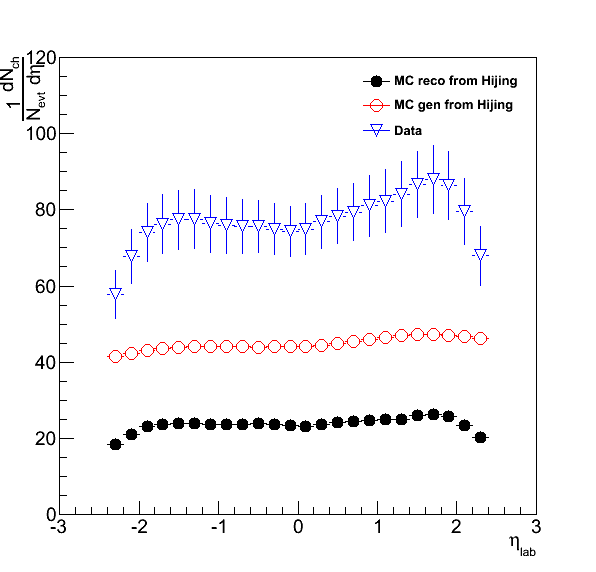
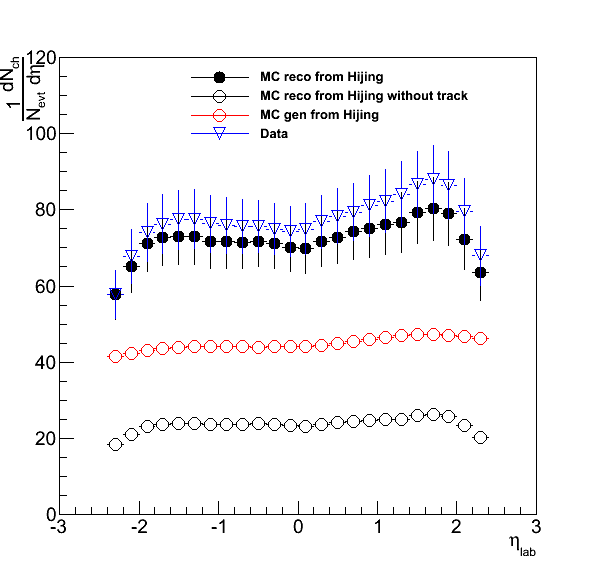
dNcheta Corr

diff --git a/dNchdeta/Correction/DrawdNchdeta.C b/dNchdeta/Correction/DrawdNchdeta.C
@@ -3,6 +3,7 @@ void DrawdNchdeta(){
     TString MCtype="Hijing";
     TCanvas *c1 = new TCanvas("c1","c1",600,600);
     TH1D* hHijing_reco = Draw(0,MCtype,1,20);
+    TH1D* hHijing_reco_nowtrack = Draw(2,MCtype,1,24);
     TH1D* hHijing_gen = Draw(-1,MCtype,2,24);
     TH1D* hdata = Draw(1,MCtype,4,32);
     TH1D* hFrame = new TH1D("","",100,-3,3);
@@ -11,15 +12,17 @@ void DrawdNchdeta(){
     hFrame->GetYaxis()->SetTitle("#frac{1}{N_{evt}}#frac{dN_{ch}}{d#eta}");
     hFrame->GetYaxis()->SetRangeUser(0,120);
     hFrame->GetYaxis()->SetTitleOffset(1.1);
-    TLegend *leg = new TLegend(0.6,0.75,0.85,0.88);
+    TLegend *leg = new TLegend(0.3,0.75,0.85,0.88);
     leg->SetBorderSize(0);
     leg->SetFillColor(0);
     leg->SetTextSize(0.025);
     leg->AddEntry(hHijing_reco,"MC reco from Hijing","lp");
+    leg->AddEntry(hHijing_reco_nowtrack,"MC reco from Hijing without track","lp");
     leg->AddEntry(hHijing_gen,"MC gen from Hijing","lp");
     leg->AddEntry(hdata,"Data","lp");
     hFrame->Draw();
     hHijing_reco->Draw("Psame");
+    hHijing_reco_nowtrack->Draw("Psame");
     hHijing_gen->Draw("Psame");
     hdata->Draw("Psame");
     leg->Draw("same");
@@ -28,7 +31,7 @@ void DrawdNchdeta(){
 }
 TH1D* Draw(int type, TString MCtype, int color, int marker){
     TString stype;
-    if(type==-1) stype=Form("%s_gen",MCtype.Data());        else if(type==0) stype=Form("%s_recoMC",MCtype.Data()); else stype="data";
+    if(type==-1) stype=Form("%s_gen",MCtype.Data());        else if(type==0) stype=Form("%s_recoMC",MCtype.Data()); else if(type==1) stype="data"; else stype=Form("%s_recoMC_nowtrack",MCtype.Data());
     TFile *f = new TFile(Form("Corr%s.root",stype.Data()),"ReadOnly");
     
     TH1D* dNchdeta = (TH1D*)f->Get("dNchdeta");

diff --git a/dNchdeta/Correction/calcdNchdeta.C b/dNchdeta/Correction/calcdNchdeta.C
@@ -16,7 +16,7 @@ TH1D* calcwevent(int);
 TH1D* calcNevtsel(int);
 void calcdNchdeta(){
 	TH1::SetDefaultSumw2();
-	int type=-1; //-1 for genMC, 0 for recoMC, 1 for data
+	int type=0; //-1 for genMC, 0 for recoMC, 1 for data
         TString MCtype = "Hijing";
 	TString stype;
 	if(type==-1) stype=Form("%s_gen",MCtype.Data());	else if(type==0) stype=Form("%s_recoMC",MCtype.Data()); else stype="data";
@@ -38,7 +38,7 @@ void calcdNchdeta(){
         TH2F *hwtrack = (TH2F*)SKhs->GetStack()->At(3);
 	for(int iMult=0;iMult<nMult;iMult++){
 		TH2F* htemp1 = (TH2F*)SKNtracks->GetStack()->At(iMult);
-	//	htemp1->Multiply(hwtrack);
+		htemp1->Multiply(hwtrack);
 		TH1D* htemp2 = htemp1->ProjectionY("htemp2",0,-1,"e");
 		htemp2->Scale(hwevent->GetBinContent(iMult+1));
 		hdnom->Add(htemp2);
